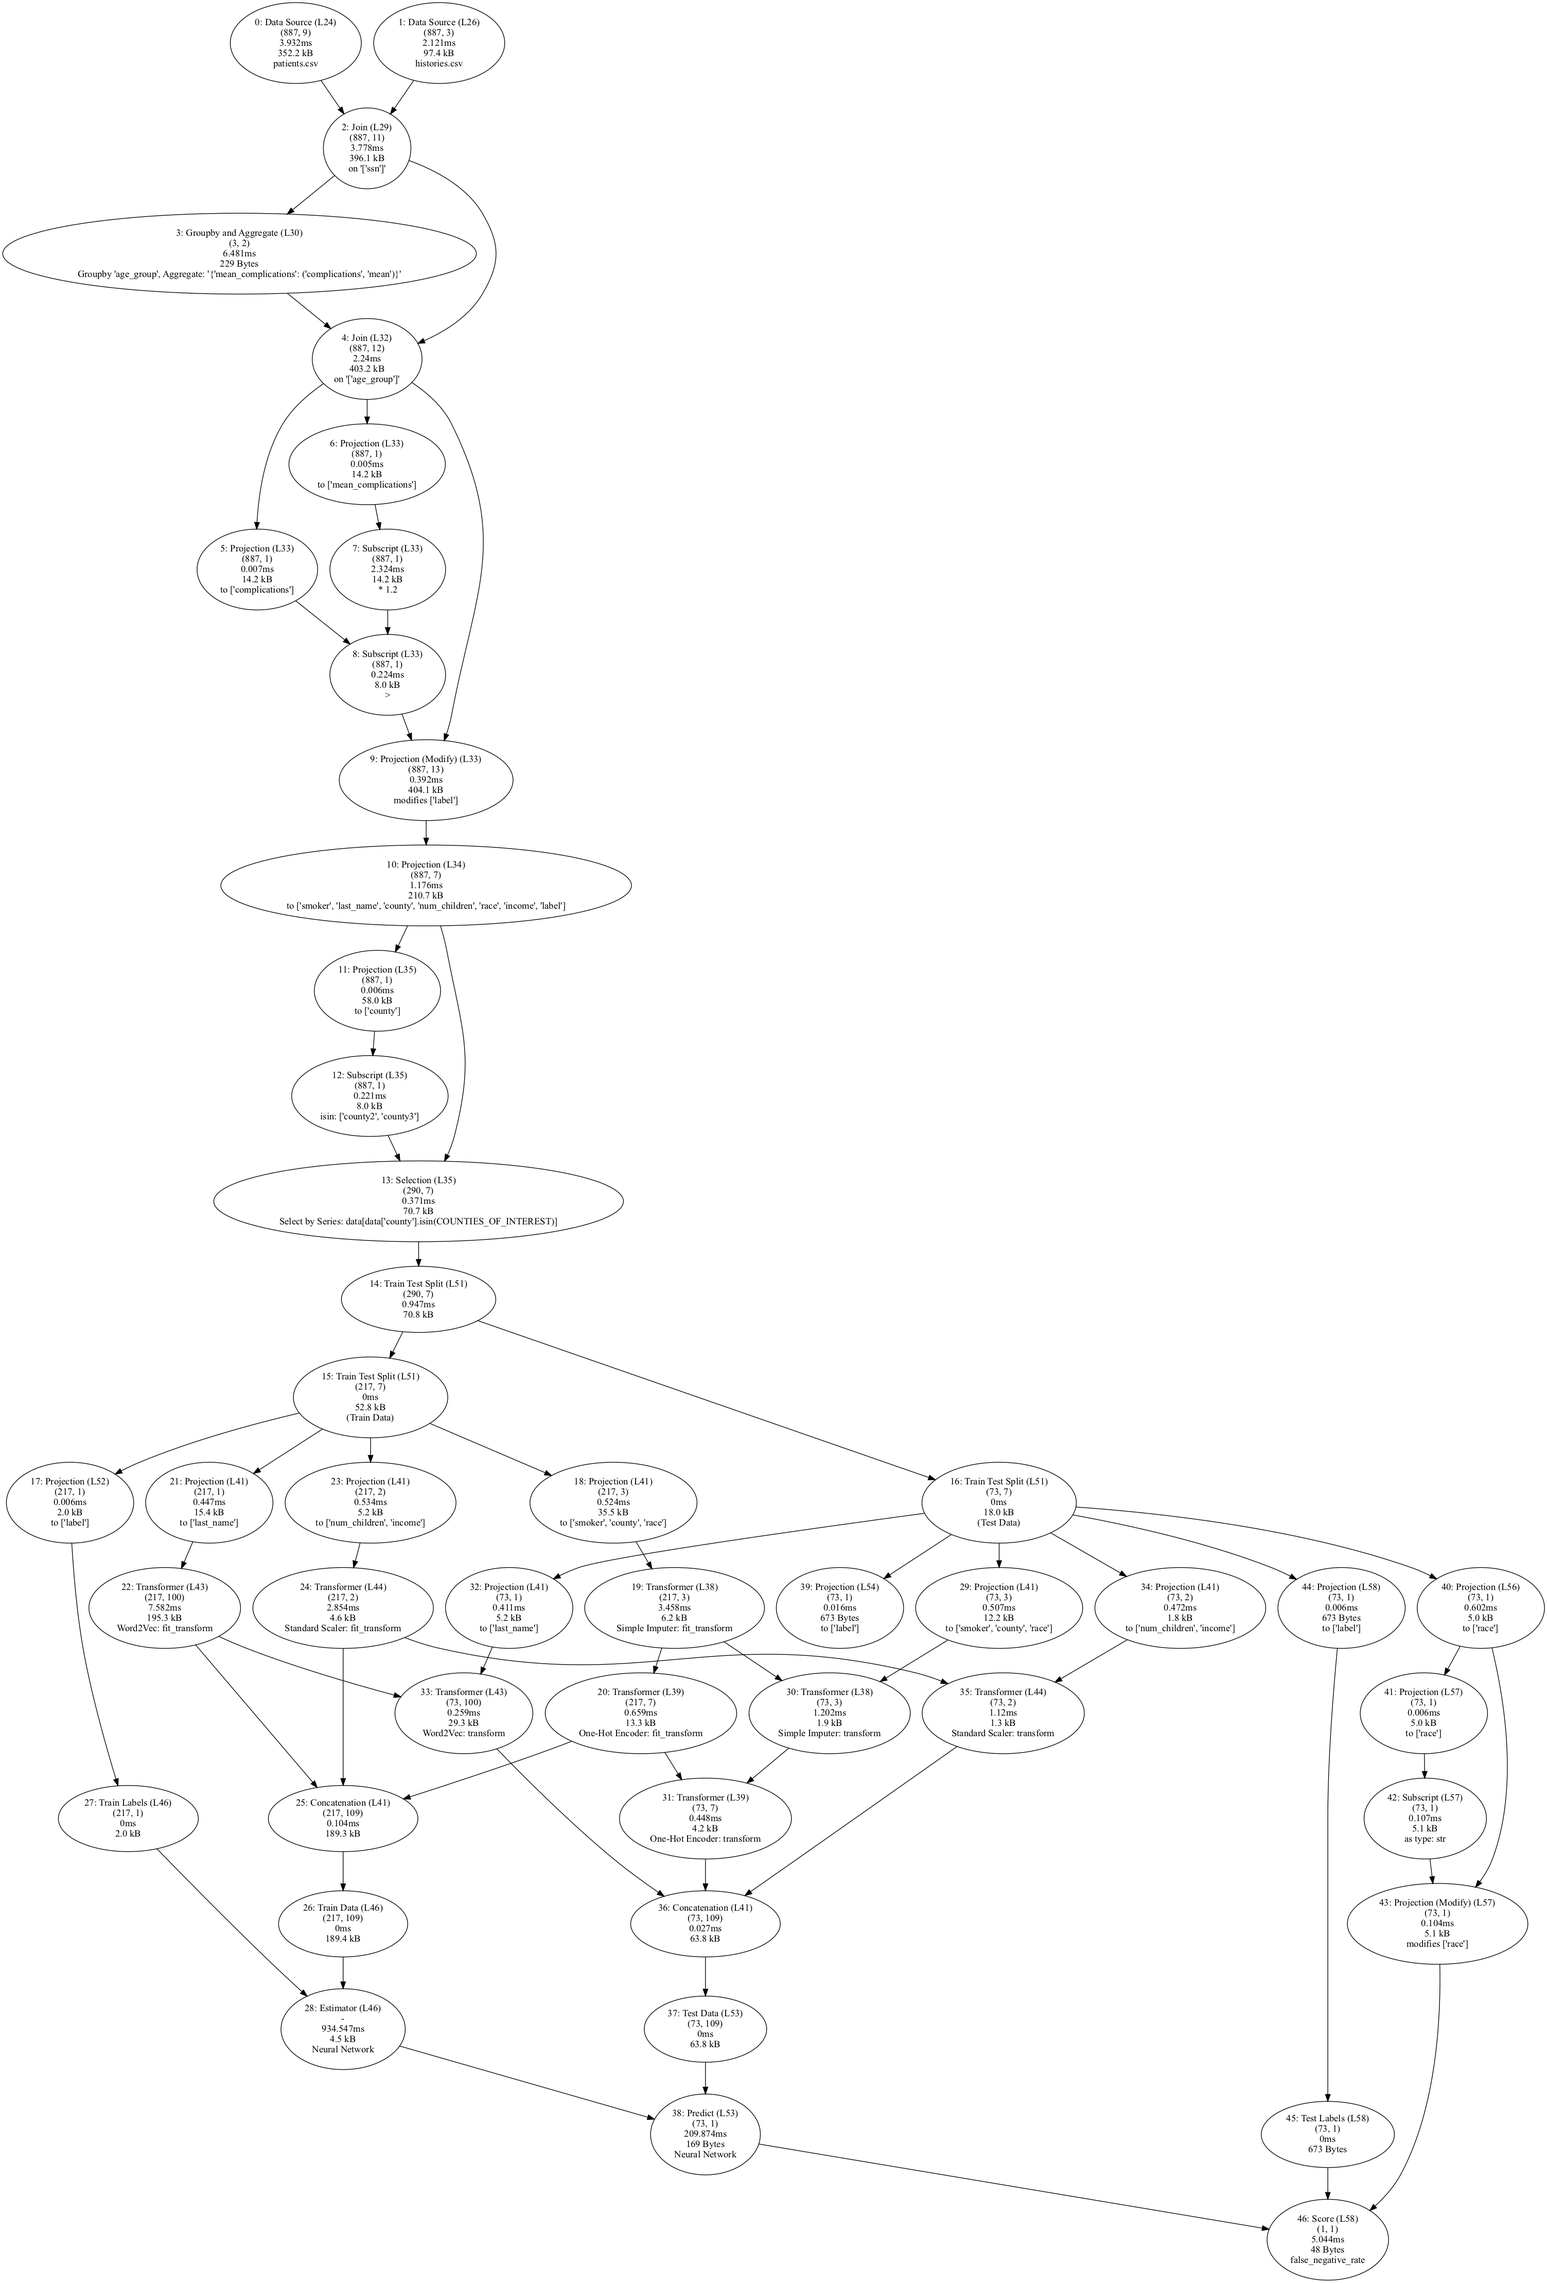
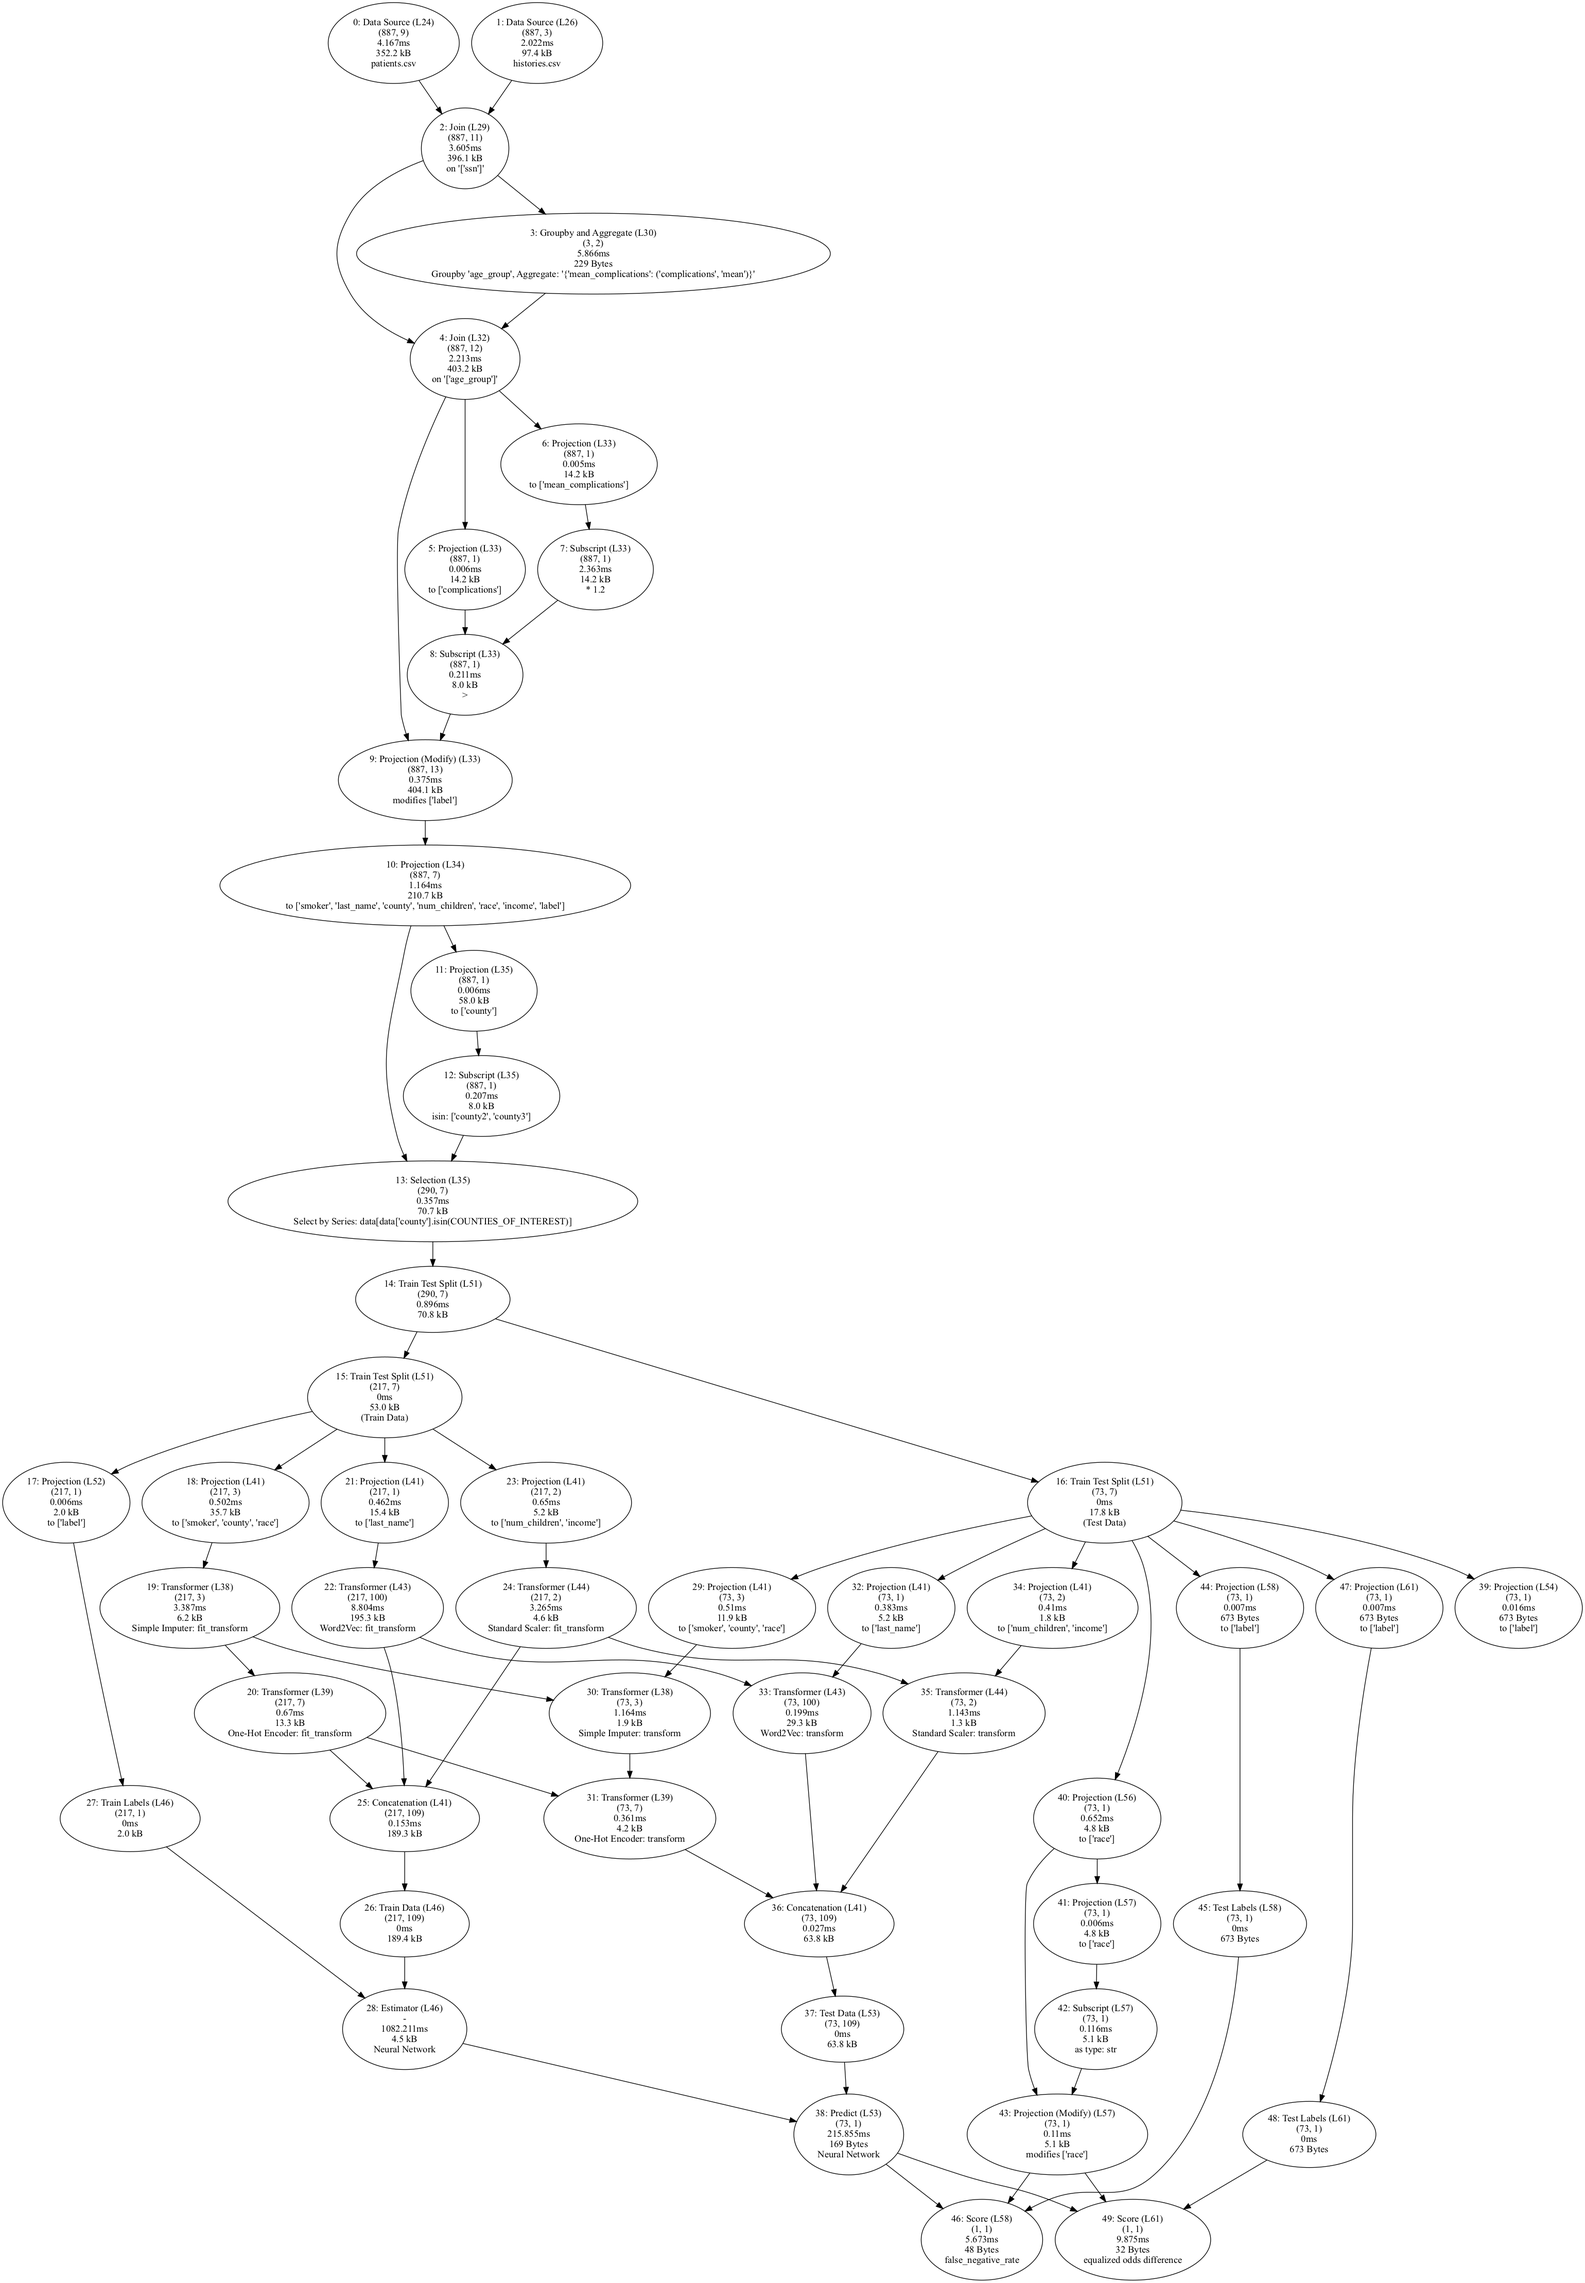
test_equalized_odds_difference

diff --git a/test/monkeypatching/test_patch_fairlearn.py b/test/monkeypatching/test_patch_fairlearn.py
@@ -110,3 +110,91 @@ def test_metric_frame___init__():
     expected = pandas.DataFrame({'sensitive': ['cat_a', 'cat_c'], 'false_negative_rate': [0.0, 0.0]})
     expected['false_negative_rate'] = expected['false_negative_rate'].astype(object)
     pandas.testing.assert_frame_equal(actual_fnr_by_group, expected, atol=1.0)
+
+
+def test_equalized_odds_difference():
+    """
+    Tests whether the monkey patching of ('pandas.core.series', 'test_series__logical_method') works
+    """
+    test_code = cleandoc("""
+                import pandas as pd
+                from fairlearn.metrics import equalized_odds_difference
+
+                predictions = pd.Series([True, False, True, True], name='A')
+                labels = pd.Series([True, False, False, True], name='B')
+                sensitive_features = pd.DataFrame(['cat_a', 'cat_a', 'cat_b', 'cat_a'], columns=['cat_col'])
+
+                metric = equalized_odds_difference(y_pred=predictions, y_true=labels, 
+                                                   sensitive_features=sensitive_features)
+                assert 0.0 <= metric <= 1.0
+                """)
+
+    inspector_result = _pipeline_executor.singleton.run(python_code=test_code, track_code_references=True)
+
+    expected_dag = networkx.DiGraph()
+    expected_data_source1 = DagNode(0,
+                                    BasicCodeLocation("<string-source>", 4),
+                                    OperatorContext(OperatorType.DATA_SOURCE,
+                                                    FunctionInfo('pandas.core.series', 'Series')),
+                                    DagNodeDetails(None, ['A'], OptimizerInfo(RangeComparison(0, 200), (4, 1),
+                                                                              RangeComparison(0, 800))),
+                                    OptionalCodeInfo(CodeReference(4, 14, 4, 60),
+                                                     "pd.Series([True, False, True, True], name='A')"),
+                                    Comparison(partial))
+    expected_data_source2 = DagNode(1,
+                                    BasicCodeLocation("<string-source>", 5),
+                                    OperatorContext(OperatorType.DATA_SOURCE,
+                                                    FunctionInfo('pandas.core.series', 'Series')),
+                                    DagNodeDetails(None, ['B'], OptimizerInfo(RangeComparison(0, 200), (4, 1),
+                                                                              RangeComparison(0, 800))),
+                                    OptionalCodeInfo(CodeReference(5, 9, 5, 56),
+                                                     "pd.Series([True, False, False, True], name='B')"),
+                                    Comparison(partial))
+    expected_data_source3 = DagNode(2,
+                                    BasicCodeLocation("<string-source>", 6),
+                                    OperatorContext(OperatorType.DATA_SOURCE,
+                                                    FunctionInfo('pandas.core.frame', 'DataFrame')),
+                                    DagNodeDetails(None, ['cat_col'], OptimizerInfo(RangeComparison(0, 200), (4, 1),
+                                                                                    RangeComparison(0, 800))),
+                                    OptionalCodeInfo(CodeReference(6, 21, 6, 92),
+                                                     "pd.DataFrame(['cat_a', 'cat_a', 'cat_b', 'cat_a'], "
+                                                     "columns=['cat_col'])"),
+                                    Comparison(partial))
+    expected_test_labels = DagNode(3,
+                                   BasicCodeLocation("<string-source>", 8),
+                                   OperatorContext(OperatorType.TEST_LABELS,
+                                                   FunctionInfo('fairlearn.metrics._disparities',
+                                                                'equalized_odds_difference')),
+                                   DagNodeDetails(None, ['B'], OptimizerInfo(RangeComparison(0, 200), (4, 1),
+                                                                             RangeComparison(0, 800))),
+                                   OptionalCodeInfo(CodeReference(8, 9, 9, 73),
+                                                    'equalized_odds_difference(y_pred=predictions, y_true=labels, \n'
+                                                    '                                   sensitive_features='
+                                                    'sensitive_features)'),
+                                   Comparison(FunctionType))
+    expected_score = DagNode(4,
+                             BasicCodeLocation("<string-source>", 8),
+                             OperatorContext(OperatorType.SCORE,
+                                             FunctionInfo('fairlearn.metrics._disparities',
+                                                          'equalized_odds_difference')),
+                             DagNodeDetails('equalized_odds_difference', [],
+                                            OptimizerInfo(RangeComparison(0, 200), (1, 1),
+                                                          RangeComparison(0, 800))),
+                             OptionalCodeInfo(CodeReference(8, 9, 9, 73),
+                                              'equalized_odds_difference(y_pred=predictions, y_true=labels, \n'
+                                              '                                   sensitive_features='
+                                              'sensitive_features)'),
+                             Comparison(FunctionType))
+    expected_dag.add_edge(expected_data_source2, expected_test_labels, arg_index=0)
+    expected_dag.add_edge(expected_data_source1, expected_score, arg_index=0)
+    expected_dag.add_edge(expected_test_labels, expected_score, arg_index=1)
+    expected_dag.add_edge(expected_data_source3, expected_score, arg_index=2)
+
+    compare(networkx.to_dict_of_dicts(inspector_result.dag), networkx.to_dict_of_dicts(expected_dag))
+
+    extracted_node = list(inspector_result.dag.nodes)[4]
+    pd_series1 = pandas.Series([True, False, True, True], name='C')
+    pd_series2 = pandas.Series([False, False, False, True], name='D')
+    pd_series3 = pandas.Series(['cat_a', 'cat_a', 'cat_a', 'cat_c'], name='sensitive')
+    extracted_func_result = extracted_node.processing_func(pd_series1, pd_series2, pd_series3)
+    assert 0.0 <= extracted_func_result <= 1.0

diff --git a/mlwhatif/monkeypatching/_patch_fairlearn.py b/mlwhatif/monkeypatching/_patch_fairlearn.py
@@ -16,6 +16,16 @@ from mlwhatif.monkeypatching._monkey_patching_utils import execute_patched_func,
     add_test_label_node, get_input_info, execute_patched_func_no_op_id
 
 
+class FairLearnCallInfo:
+    """ Contains info like whether some score function is already being processed """
+    # pylint: disable=too-few-public-methods
+
+    score_active = False
+
+
+call_info_singleton = FairLearnCallInfo()
+
+
 @gorilla.patches(metrics.MetricFrame)
 class MetricFramePatching:
     """ Patches for 'pandas.core.frame' """
@@ -60,8 +70,62 @@ class MetricFramePatching:
                                DagNodeDetails(kwargs['metrics'].__name__, [], optimizer_info),
                                get_optional_code_info_or_none(optional_code_reference, optional_source_code),
                                process_func)
-            function_call_result = FunctionCallResult(result)
+            function_call_result = FunctionCallResult(None)
             add_dag_node(dag_node, [input_info_pred.dag_node, test_labels_node, input_info_sensitive_cols.dag_node],
                          function_call_result)
+            return result
+        if call_info_singleton.score_active is False:
+            return execute_patched_func_no_op_id(original, execute_inspections, self, *args, **kwargs)
+        else:
+            return original(self, *args, **kwargs)
 
-        execute_patched_func_no_op_id(original, execute_inspections, *args, **kwargs)
+
+@gorilla.patches(metrics)
+class MetricsPatching:
+    """ Patches for 'fairlearn.metrics' """
+
+    @gorilla.name('equalized_odds_difference')
+    @gorilla.settings(allow_hit=True)
+    def patched_equalized_odds_difference(*args, **kwargs):
+        """ Patch for ('fairlearn.metrics._disparities', 'equalized_odds_difference') """
+        original = gorilla.get_original_attribute(metrics, 'equalized_odds_difference')
+
+        def execute_inspections(_, caller_filename, lineno, optional_code_reference, optional_source_code):
+            """ Execute inspections, add DAG node """
+            function_info = FunctionInfo('fairlearn.metrics._disparities', 'equalized_odds_difference')
+
+            input_info_pred = get_input_info(kwargs['y_pred'], caller_filename, lineno, function_info,
+                                             optional_code_reference, optional_source_code)
+
+            input_info_sensitive_cols = get_input_info(kwargs['sensitive_features'], caller_filename, lineno,
+                                                       function_info, optional_code_reference, optional_source_code)
+
+            # Test labels
+            _, test_labels_node, test_labels_result = add_test_label_node(kwargs['y_true'],
+                                                                          caller_filename,
+                                                                          function_info,
+                                                                          lineno,
+                                                                          optional_code_reference,
+                                                                          optional_source_code)
+
+            operator_context = OperatorContext(OperatorType.SCORE, function_info)
+            initial_func = partial(original, *args, **kwargs)
+            call_info_singleton.score_active = True
+            optimizer_info, result = capture_optimizer_info(initial_func)
+            call_info_singleton.score_active = False
+
+            def process_metric_frame(y_true, y_pred, sensitive_features):
+                return original(y_true=y_true, y_pred=y_pred, sensitive_features=sensitive_features)
+
+            dag_node = DagNode(singleton.get_next_op_id(),
+                               BasicCodeLocation(caller_filename, lineno),
+                               operator_context,
+                               DagNodeDetails('equalized_odds_difference', [], optimizer_info),
+                               get_optional_code_info_or_none(optional_code_reference, optional_source_code),
+                               process_metric_frame)
+            function_call_result = FunctionCallResult(None)
+            add_dag_node(dag_node, [input_info_pred.dag_node, test_labels_node, input_info_sensitive_cols.dag_node],
+                         function_call_result)
+            return result
+
+        return execute_patched_func_no_op_id(original, execute_inspections, *args, **kwargs)

diff --git a/example_pipelines/healthcare/healthcare.py b/example_pipelines/healthcare/healthcare.py
@@ -3,7 +3,7 @@ import os
 import warnings
 
 import pandas as pd
-from fairlearn.metrics import MetricFrame, false_negative_rate
+from fairlearn.metrics import MetricFrame, false_negative_rate, equalized_odds_difference
 from sklearn.compose import ColumnTransformer
 from sklearn.impute import SimpleImputer
 from sklearn.metrics import accuracy_score
@@ -58,3 +58,6 @@ sensitive_features['race'] = sensitive_features['race'].astype(str)
 fnr_by_group = MetricFrame(metrics=false_negative_rate, y_pred=test_predictions, y_true=test_data['label'],
                            sensitive_features=sensitive_features)
 print(f"False-negative by group: {fnr_by_group.by_group}")
+equalized_odds_diff = equalized_odds_difference(y_pred=test_predictions, y_true=test_data['label'],
+                                                sensitive_features=sensitive_features)
+print(f"Equalized odds difference: {equalized_odds_diff}")
